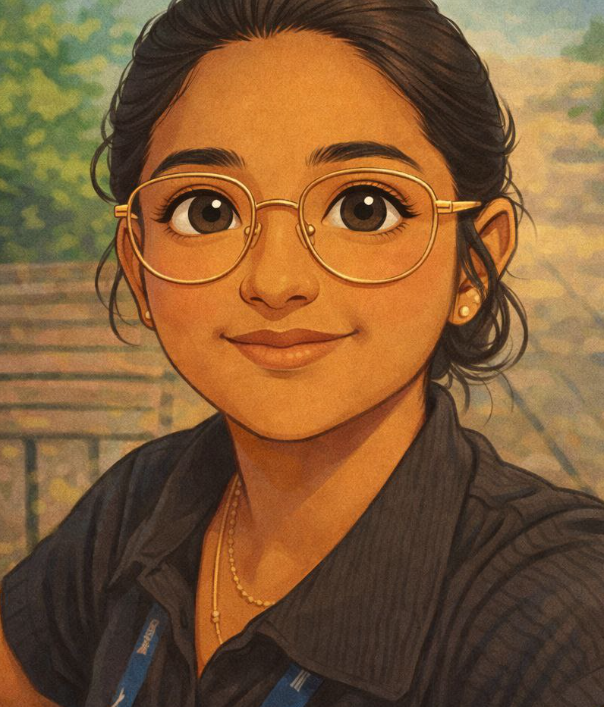
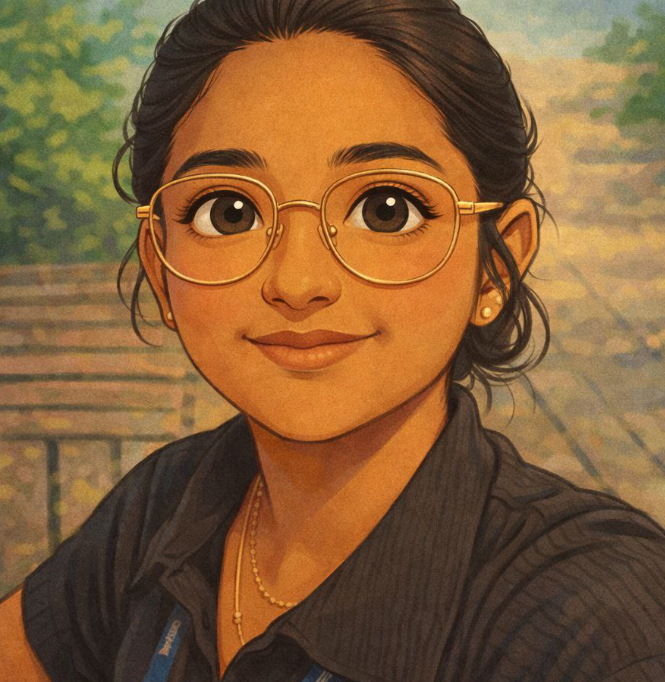
deploy: Harish3000/deeproot-source@60292916d2950c9704e31d5e87c1730317eb4a4d

diff --git a/authors/nethsarani/index.html b/authors/nethsarani/index.html
@@ -1,4 +1,4 @@
-<!doctype html><html itemscope lang=en-us itemtype=http://schema.org/WebPage><head><meta charset=utf-8><meta name=viewport content="width=device-width,initial-scale=1,maximum-scale=5"><meta name=theme-name content="hugoplate"><link rel="shortcut icon" href=/deeproot-hugo-engine/images/favicon_hu_8733e178ecfeb5cb.png type=image/x-icon><link rel=icon href=/deeproot-hugo-engine/images/favicon_hu_8733e178ecfeb5cb.png type=image/x-icon><link rel=icon type=image/png sizes=48x48 href=/deeproot-hugo-engine/images/favicon_hu_4f04ed45feaf467.png><link rel=icon type=image/png sizes=96x96 href=/deeproot-hugo-engine/images/favicon_hu_8733e178ecfeb5cb.png><link rel=apple-touch-icon sizes=144x144 href=/deeproot-hugo-engine/images/favicon_hu_c1a77a67c5ac1084.png><link rel=manifest href=/deeproot-hugo-engine/manifest.webmanifest><meta name=msapplication-TileColor content="#ddd"><meta name=theme-color content="#ffffff"><base href=https://Harish3000.github.io/deeproot-hugo-engine/authors/nethsarani/><title>Nethsarani</title><meta name=keywords content="Technology,Software Engineering"><meta name=description content="Software Engineering Intern from Walasmulla, Sri Lanka."><meta name=author content="Harish3000"><meta property="og:image" content="https://Harish3000.github.io/deeproot-hugo-engine/images/authors/nethsarani.png"><meta name=twitter:image content="https://Harish3000.github.io/deeproot-hugo-engine/images/authors/nethsarani.png"><meta name=twitter:card content="summary_large_image"><meta property="og:image:width" content="604"><meta property="og:image:height" content="707"><meta property="og:image:type" content="image/.png"><meta property="og:title" content="Nethsarani"><meta property="og:description" content="Software Engineering Intern from Walasmulla, Sri Lanka."><meta property="og:type" content="website"><meta property="og:url" content="https://Harish3000.github.io/deeproot-hugo-engine/authors/nethsarani/"><meta name=twitter:title content="Nethsarani"><meta name=twitter:description content="Software Engineering Intern from Walasmulla, Sri Lanka."><meta name=twitter:site content="@Harish3000"><meta name=twitter:creator content="@Harish3000"><script>let indexURL="https://Harish3000.github.io/deeproot-hugo-engine/searchindex.json",includeSectionsInSearch=["blog"],search_no_results="No results for",search_initial_message="Type something to search.."</script><meta http-equiv=x-dns-prefetch-control content="on"><link rel=preconnect href=https://use.fontawesome.com crossorigin><link rel=preconnect href=//cdnjs.cloudflare.com><link rel=preconnect href=//www.googletagmanager.com><link rel=preconnect href=//www.google-analytics.com><link rel=dns-prefetch href=https://use.fontawesome.com><link rel=dns-prefetch href=//ajax.googleapis.com><link rel=dns-prefetch href=//cdnjs.cloudflare.com><link rel=dns-prefetch href=//www.googletagmanager.com><link rel=dns-prefetch href=//www.google-analytics.com><link rel=dns-prefetch href=//fonts.googleapis.com><link rel=dns-prefetch href=//connect.facebook.net><link rel=dns-prefetch href=//platform.linkedin.com><link rel=dns-prefetch href=//platform.twitter.com><link rel=preconnect href=https://fonts.googleapis.com><link rel=preconnect href=https://fonts.gstatic.com crossorigin><script>(function(){const e=document.createElement("link");e.href="https://fonts.googleapis.com/css2?family=Heebo:wght@400;600&family=Signika:wght@500;700&display=swap",e.type="text/css",e.rel="stylesheet",document.head.appendChild(e)})()</script><link href=/deeproot-hugo-engine/css/style.e09b48b457f53eefd796ef9a8e10a43dc861abe9a2ca5933b2c747d6246b6a5d.css integrity="sha256-4JtItFf1Pu/Xlu+ajhCkPchhq+miylkzssdH1iRral0=" rel=stylesheet><link rel=stylesheet href=/deeproot-hugo-engine/css/style-lazy.min.9e7e035d2f064fe004383f2ffc11a8f2966ef7b51c5fb2fac926e35c0061b5cf.css integrity="sha256-nn4DXS8GT+AEOD8v/BGo8pZu97UcX7L6ySbjXABhtc8=" media=print onload='this.media="all",this.onload=null'></head><body><header class="header sticky top-0 z-30"><nav class="navbar container"><div class=order-0><a class="navbar-brand block" href=/deeproot-hugo-engine/><img fetchpriority=high decoding=async class="img img-light" width=160 height=32 src=/deeproot-hugo-engine/images/logo_hu_d762a207c9062941.webp alt=Deeproot onerror='this.onerror=null,this.src="/deeproot-hugo-engine/images/logo_hu_a7e123e3041fcd46.png"'>
+<!doctype html><html itemscope lang=en-us itemtype=http://schema.org/WebPage><head><meta charset=utf-8><meta name=viewport content="width=device-width,initial-scale=1,maximum-scale=5"><meta name=theme-name content="hugoplate"><link rel="shortcut icon" href=/deeproot-hugo-engine/images/favicon_hu_8733e178ecfeb5cb.png type=image/x-icon><link rel=icon href=/deeproot-hugo-engine/images/favicon_hu_8733e178ecfeb5cb.png type=image/x-icon><link rel=icon type=image/png sizes=48x48 href=/deeproot-hugo-engine/images/favicon_hu_4f04ed45feaf467.png><link rel=icon type=image/png sizes=96x96 href=/deeproot-hugo-engine/images/favicon_hu_8733e178ecfeb5cb.png><link rel=apple-touch-icon sizes=144x144 href=/deeproot-hugo-engine/images/favicon_hu_c1a77a67c5ac1084.png><link rel=manifest href=/deeproot-hugo-engine/manifest.webmanifest><meta name=msapplication-TileColor content="#ddd"><meta name=theme-color content="#ffffff"><base href=https://Harish3000.github.io/deeproot-hugo-engine/authors/nethsarani/><title>Nethsarani</title><meta name=keywords content="Technology,Software Engineering"><meta name=description content="Software Engineering Intern from Walasmulla, Sri Lanka."><meta name=author content="Harish3000"><meta property="og:image" content="https://Harish3000.github.io/deeproot-hugo-engine/images/authors/nethsarani.png"><meta name=twitter:image content="https://Harish3000.github.io/deeproot-hugo-engine/images/authors/nethsarani.png"><meta name=twitter:card content="summary_large_image"><meta property="og:image:width" content="665"><meta property="og:image:height" content="682"><meta property="og:image:type" content="image/.png"><meta property="og:title" content="Nethsarani"><meta property="og:description" content="Software Engineering Intern from Walasmulla, Sri Lanka."><meta property="og:type" content="website"><meta property="og:url" content="https://Harish3000.github.io/deeproot-hugo-engine/authors/nethsarani/"><meta name=twitter:title content="Nethsarani"><meta name=twitter:description content="Software Engineering Intern from Walasmulla, Sri Lanka."><meta name=twitter:site content="@Harish3000"><meta name=twitter:creator content="@Harish3000"><script>let indexURL="https://Harish3000.github.io/deeproot-hugo-engine/searchindex.json",includeSectionsInSearch=["blog"],search_no_results="No results for",search_initial_message="Type something to search.."</script><meta http-equiv=x-dns-prefetch-control content="on"><link rel=preconnect href=https://use.fontawesome.com crossorigin><link rel=preconnect href=//cdnjs.cloudflare.com><link rel=preconnect href=//www.googletagmanager.com><link rel=preconnect href=//www.google-analytics.com><link rel=dns-prefetch href=https://use.fontawesome.com><link rel=dns-prefetch href=//ajax.googleapis.com><link rel=dns-prefetch href=//cdnjs.cloudflare.com><link rel=dns-prefetch href=//www.googletagmanager.com><link rel=dns-prefetch href=//www.google-analytics.com><link rel=dns-prefetch href=//fonts.googleapis.com><link rel=dns-prefetch href=//connect.facebook.net><link rel=dns-prefetch href=//platform.linkedin.com><link rel=dns-prefetch href=//platform.twitter.com><link rel=preconnect href=https://fonts.googleapis.com><link rel=preconnect href=https://fonts.gstatic.com crossorigin><script>(function(){const e=document.createElement("link");e.href="https://fonts.googleapis.com/css2?family=Heebo:wght@400;600&family=Signika:wght@500;700&display=swap",e.type="text/css",e.rel="stylesheet",document.head.appendChild(e)})()</script><link href=/deeproot-hugo-engine/css/style.e09b48b457f53eefd796ef9a8e10a43dc861abe9a2ca5933b2c747d6246b6a5d.css integrity="sha256-4JtItFf1Pu/Xlu+ajhCkPchhq+miylkzssdH1iRral0=" rel=stylesheet><link rel=stylesheet href=/deeproot-hugo-engine/css/style-lazy.min.9e7e035d2f064fe004383f2ffc11a8f2966ef7b51c5fb2fac926e35c0061b5cf.css integrity="sha256-nn4DXS8GT+AEOD8v/BGo8pZu97UcX7L6ySbjXABhtc8=" media=print onload='this.media="all",this.onload=null'></head><body><header class="header sticky top-0 z-30"><nav class="navbar container"><div class=order-0><a class="navbar-brand block" href=/deeproot-hugo-engine/><img fetchpriority=high decoding=async class="img img-light" width=160 height=32 src=/deeproot-hugo-engine/images/logo_hu_d762a207c9062941.webp alt=Deeproot onerror='this.onerror=null,this.src="/deeproot-hugo-engine/images/logo_hu_a7e123e3041fcd46.png"'>
 <img fetchpriority=high decoding=async class="img img-dark" width=160 height=32 src=/deeproot-hugo-engine/images/logo-darkmode_hu_b75a00e749bdac76.webp alt=Deeproot onerror='this.onerror=null,this.src="/deeproot-hugo-engine/images/logo-darkmode_hu_c1861bfdbb313d14.png"'></a></div><input id=nav-toggle type=checkbox class=hidden>
 <label for=nav-toggle class="order-3 cursor-pointer flex items-center lg:hidden text-text-dark dark:text-white lg:order-1"><svg id="show-button" class="h-6 fill-current block" viewBox="0 0 20 20"><title>Menu Open</title><path d="M0 3h20v2H0V3zm0 6h20v2H0V9zm0 6h20v2H0V0z"/></svg>
 <svg id="hide-button" class="h-6 fill-current hidden" viewBox="0 0 20 20"><title>Menu Close</title><polygon points="11 9 22 9 22 11 11 11 11 22 9 22 9 11 -2 11 -2 9 9 9 9 -2 11 -2" transform="rotate(45 10 10)"/></svg></label><ul id=nav-menu class="navbar-nav order-3 hidden lg:flex w-full pb-6 lg:order-1 lg:w-auto lg:space-x-2 lg:pb-0 xl:space-x-8"><li class=nav-item><a class=nav-link href=/deeproot-hugo-engine/>Home</a></li><li class=nav-item><a class=nav-link href=/deeproot-hugo-engine/about>About</a></li><li class=nav-item><a class=nav-link href=/deeproot-hugo-engine/blog>Blogs</a></li><li class=nav-item><a class=nav-link href=/deeproot-hugo-engine/categories>Categories</a></li><li class=nav-item><a class=nav-link href=/deeproot-hugo-engine/authors>Authors</a></li><li class="nav-item nav-dropdown group relative"><input type=checkbox id=submenu-pages class="peer hidden lg:hidden">
@@ -19,7 +19,7 @@ text-xl dark:text-white cursor-pointer dark:hover:text-darkmode-primary" data-ta
 </span><span><kbd><svg width="12" height="12" fill="currentColor" style="display:inline-block" viewBox="0 0 16 16"><path fill-rule="evenodd" d="M14.5 1.5a.5.5.0 01.5.5v4.8a2.5 2.5.0 01-2.5 2.5H2.707l3.347 3.346a.5.5.0 01-.708.708l-4.2-4.2a.5.5.0 010-.708l4-4a.5.5.0 11.708.708L2.707 8.3H12.5A1.5 1.5.0 0014 6.8V2a.5.5.0 01.5-.5z"/></svg>
 </kbd>to select
 </span><span class=search-result-info></span>
-<span data-target=close-search-modal><kbd>ESC</kbd> to close</span></div></div></div><main><section class="section-sm pb-0"><div class=container><div class="row border-border dark:border-darkmode-border justify-center border-b pb-14"><div class="lg:col-4 text-center"><img src=/deeproot-hugo-engine/images/authors/nethsarani_hu_6ee274d56860792d.webp loading=lazy decoding=async alt=Nethsarani class="mx-auto img" width=200 height=200 onerror='this.onerror="null",this.src="/deeproot-hugo-engine/images/authors/nethsarani_hu_e637d7ea73a83bba.png"'><h1 class="h3 mt-10">Nethsarani</h1><div class="content mt-6"><p>Nethsarani is a dedicated software intern from Walasmulla, Sri Lanka, with a strong interest in system design, software architecture, and problem-solving techniques.</p></div><ul class="social-icons ml-4 mt-10 text-center"><li><a href=https://github.com target=_blank rel="noopener nofollow"><span class=sr-only></span>
+<span data-target=close-search-modal><kbd>ESC</kbd> to close</span></div></div></div><main><section class="section-sm pb-0"><div class=container><div class="row border-border dark:border-darkmode-border justify-center border-b pb-14"><div class="lg:col-4 text-center"><img src=/deeproot-hugo-engine/images/authors/nethsarani_hu_4af84f05188488cf.webp loading=lazy decoding=async alt=Nethsarani class="mx-auto img" width=200 height=200 onerror='this.onerror="null",this.src="/deeproot-hugo-engine/images/authors/nethsarani_hu_3536cbd12f264a4e.png"'><h1 class="h3 mt-10">Nethsarani</h1><div class="content mt-6"><p>Nethsarani is a dedicated software intern from Walasmulla, Sri Lanka, with a strong interest in system design, software architecture, and problem-solving techniques.</p></div><ul class="social-icons ml-4 mt-10 text-center"><li><a href=https://github.com target=_blank rel="noopener nofollow"><span class=sr-only></span>
 <i class="fa-brands fa-github"></i></a></li><li><a href=https://twitter.com target=_blank rel="noopener nofollow"><span class=sr-only></span>
 <i class="fa-brands fa-twitter"></i></a></li><li><a href=https://linkedin.com target=_blank rel="noopener nofollow"><span class=sr-only></span>
 <i class="fa-brands fa-linkedin"></i></a></li></ul></div></div><div class="row pb-16 pt-14"></div></div></section></main><footer class="bg-light dark:bg-darkmode-light"><div class=container><div class="row items-center py-10"><div class="lg:col-3 mb-8 text-center lg:mb-0 lg:text-left"><a class="navbar-brand inline-block" href=/deeproot-hugo-engine/><img fetchpriority=high decoding=async class="img img-light" width=160 height=32 src=/deeproot-hugo-engine/images/logo_hu_d762a207c9062941.webp alt=Deeproot onerror='this.onerror=null,this.src="/deeproot-hugo-engine/images/logo_hu_a7e123e3041fcd46.png"'>

diff --git a/authors/manodya/index.html b/authors/manodya/index.html
@@ -1,4 +1,4 @@
-<!doctype html><html itemscope lang=en-us itemtype=http://schema.org/WebPage><head><meta charset=utf-8><meta name=viewport content="width=device-width,initial-scale=1,maximum-scale=5"><meta name=theme-name content="hugoplate"><link rel="shortcut icon" href=/deeproot-hugo-engine/images/favicon_hu_8733e178ecfeb5cb.png type=image/x-icon><link rel=icon href=/deeproot-hugo-engine/images/favicon_hu_8733e178ecfeb5cb.png type=image/x-icon><link rel=icon type=image/png sizes=48x48 href=/deeproot-hugo-engine/images/favicon_hu_4f04ed45feaf467.png><link rel=icon type=image/png sizes=96x96 href=/deeproot-hugo-engine/images/favicon_hu_8733e178ecfeb5cb.png><link rel=apple-touch-icon sizes=144x144 href=/deeproot-hugo-engine/images/favicon_hu_c1a77a67c5ac1084.png><link rel=manifest href=/deeproot-hugo-engine/manifest.webmanifest><meta name=msapplication-TileColor content="#ddd"><meta name=theme-color content="#ffffff"><base href=https://Harish3000.github.io/deeproot-hugo-engine/authors/manodya/><title>Manodya</title><meta name=keywords content="Technology,Software Engineering"><meta name=description content="Software Engineering Intern from Weerakettiya, Sri Lanka."><meta name=author content="Harish3000"><meta property="og:image" content="https://Harish3000.github.io/deeproot-hugo-engine/images/authors/manodya.png"><meta name=twitter:image content="https://Harish3000.github.io/deeproot-hugo-engine/images/authors/manodya.png"><meta name=twitter:card content="summary_large_image"><meta property="og:image:width" content="462"><meta property="og:image:height" content="497"><meta property="og:image:type" content="image/.png"><meta property="og:title" content="Manodya"><meta property="og:description" content="Software Engineering Intern from Weerakettiya, Sri Lanka."><meta property="og:type" content="website"><meta property="og:url" content="https://Harish3000.github.io/deeproot-hugo-engine/authors/manodya/"><meta name=twitter:title content="Manodya"><meta name=twitter:description content="Software Engineering Intern from Weerakettiya, Sri Lanka."><meta name=twitter:site content="@Harish3000"><meta name=twitter:creator content="@Harish3000"><script>let indexURL="https://Harish3000.github.io/deeproot-hugo-engine/searchindex.json",includeSectionsInSearch=["blog"],search_no_results="No results for",search_initial_message="Type something to search.."</script><meta http-equiv=x-dns-prefetch-control content="on"><link rel=preconnect href=https://use.fontawesome.com crossorigin><link rel=preconnect href=//cdnjs.cloudflare.com><link rel=preconnect href=//www.googletagmanager.com><link rel=preconnect href=//www.google-analytics.com><link rel=dns-prefetch href=https://use.fontawesome.com><link rel=dns-prefetch href=//ajax.googleapis.com><link rel=dns-prefetch href=//cdnjs.cloudflare.com><link rel=dns-prefetch href=//www.googletagmanager.com><link rel=dns-prefetch href=//www.google-analytics.com><link rel=dns-prefetch href=//fonts.googleapis.com><link rel=dns-prefetch href=//connect.facebook.net><link rel=dns-prefetch href=//platform.linkedin.com><link rel=dns-prefetch href=//platform.twitter.com><link rel=preconnect href=https://fonts.googleapis.com><link rel=preconnect href=https://fonts.gstatic.com crossorigin><script>(function(){const e=document.createElement("link");e.href="https://fonts.googleapis.com/css2?family=Heebo:wght@400;600&family=Signika:wght@500;700&display=swap",e.type="text/css",e.rel="stylesheet",document.head.appendChild(e)})()</script><link href=/deeproot-hugo-engine/css/style.e09b48b457f53eefd796ef9a8e10a43dc861abe9a2ca5933b2c747d6246b6a5d.css integrity="sha256-4JtItFf1Pu/Xlu+ajhCkPchhq+miylkzssdH1iRral0=" rel=stylesheet><link rel=stylesheet href=/deeproot-hugo-engine/css/style-lazy.min.9e7e035d2f064fe004383f2ffc11a8f2966ef7b51c5fb2fac926e35c0061b5cf.css integrity="sha256-nn4DXS8GT+AEOD8v/BGo8pZu97UcX7L6ySbjXABhtc8=" media=print onload='this.media="all",this.onload=null'></head><body><header class="header sticky top-0 z-30"><nav class="navbar container"><div class=order-0><a class="navbar-brand block" href=/deeproot-hugo-engine/><img fetchpriority=high decoding=async class="img img-light" width=160 height=32 src=/deeproot-hugo-engine/images/logo_hu_d762a207c9062941.webp alt=Deeproot onerror='this.onerror=null,this.src="/deeproot-hugo-engine/images/logo_hu_a7e123e3041fcd46.png"'>
+<!doctype html><html itemscope lang=en-us itemtype=http://schema.org/WebPage><head><meta charset=utf-8><meta name=viewport content="width=device-width,initial-scale=1,maximum-scale=5"><meta name=theme-name content="hugoplate"><link rel="shortcut icon" href=/deeproot-hugo-engine/images/favicon_hu_8733e178ecfeb5cb.png type=image/x-icon><link rel=icon href=/deeproot-hugo-engine/images/favicon_hu_8733e178ecfeb5cb.png type=image/x-icon><link rel=icon type=image/png sizes=48x48 href=/deeproot-hugo-engine/images/favicon_hu_4f04ed45feaf467.png><link rel=icon type=image/png sizes=96x96 href=/deeproot-hugo-engine/images/favicon_hu_8733e178ecfeb5cb.png><link rel=apple-touch-icon sizes=144x144 href=/deeproot-hugo-engine/images/favicon_hu_c1a77a67c5ac1084.png><link rel=manifest href=/deeproot-hugo-engine/manifest.webmanifest><meta name=msapplication-TileColor content="#ddd"><meta name=theme-color content="#ffffff"><base href=https://Harish3000.github.io/deeproot-hugo-engine/authors/manodya/><title>Manodya</title><meta name=keywords content="Technology,Software Engineering"><meta name=description content="Software Engineering Intern from Weerakettiya, Sri Lanka."><meta name=author content="Harish3000"><meta property="og:image" content="https://Harish3000.github.io/deeproot-hugo-engine/images/authors/manodya.png"><meta name=twitter:image content="https://Harish3000.github.io/deeproot-hugo-engine/images/authors/manodya.png"><meta name=twitter:card content="summary_large_image"><meta property="og:image:width" content="462"><meta property="og:image:height" content="533"><meta property="og:image:type" content="image/.png"><meta property="og:title" content="Manodya"><meta property="og:description" content="Software Engineering Intern from Weerakettiya, Sri Lanka."><meta property="og:type" content="website"><meta property="og:url" content="https://Harish3000.github.io/deeproot-hugo-engine/authors/manodya/"><meta name=twitter:title content="Manodya"><meta name=twitter:description content="Software Engineering Intern from Weerakettiya, Sri Lanka."><meta name=twitter:site content="@Harish3000"><meta name=twitter:creator content="@Harish3000"><script>let indexURL="https://Harish3000.github.io/deeproot-hugo-engine/searchindex.json",includeSectionsInSearch=["blog"],search_no_results="No results for",search_initial_message="Type something to search.."</script><meta http-equiv=x-dns-prefetch-control content="on"><link rel=preconnect href=https://use.fontawesome.com crossorigin><link rel=preconnect href=//cdnjs.cloudflare.com><link rel=preconnect href=//www.googletagmanager.com><link rel=preconnect href=//www.google-analytics.com><link rel=dns-prefetch href=https://use.fontawesome.com><link rel=dns-prefetch href=//ajax.googleapis.com><link rel=dns-prefetch href=//cdnjs.cloudflare.com><link rel=dns-prefetch href=//www.googletagmanager.com><link rel=dns-prefetch href=//www.google-analytics.com><link rel=dns-prefetch href=//fonts.googleapis.com><link rel=dns-prefetch href=//connect.facebook.net><link rel=dns-prefetch href=//platform.linkedin.com><link rel=dns-prefetch href=//platform.twitter.com><link rel=preconnect href=https://fonts.googleapis.com><link rel=preconnect href=https://fonts.gstatic.com crossorigin><script>(function(){const e=document.createElement("link");e.href="https://fonts.googleapis.com/css2?family=Heebo:wght@400;600&family=Signika:wght@500;700&display=swap",e.type="text/css",e.rel="stylesheet",document.head.appendChild(e)})()</script><link href=/deeproot-hugo-engine/css/style.e09b48b457f53eefd796ef9a8e10a43dc861abe9a2ca5933b2c747d6246b6a5d.css integrity="sha256-4JtItFf1Pu/Xlu+ajhCkPchhq+miylkzssdH1iRral0=" rel=stylesheet><link rel=stylesheet href=/deeproot-hugo-engine/css/style-lazy.min.9e7e035d2f064fe004383f2ffc11a8f2966ef7b51c5fb2fac926e35c0061b5cf.css integrity="sha256-nn4DXS8GT+AEOD8v/BGo8pZu97UcX7L6ySbjXABhtc8=" media=print onload='this.media="all",this.onload=null'></head><body><header class="header sticky top-0 z-30"><nav class="navbar container"><div class=order-0><a class="navbar-brand block" href=/deeproot-hugo-engine/><img fetchpriority=high decoding=async class="img img-light" width=160 height=32 src=/deeproot-hugo-engine/images/logo_hu_d762a207c9062941.webp alt=Deeproot onerror='this.onerror=null,this.src="/deeproot-hugo-engine/images/logo_hu_a7e123e3041fcd46.png"'>
 <img fetchpriority=high decoding=async class="img img-dark" width=160 height=32 src=/deeproot-hugo-engine/images/logo-darkmode_hu_b75a00e749bdac76.webp alt=Deeproot onerror='this.onerror=null,this.src="/deeproot-hugo-engine/images/logo-darkmode_hu_c1861bfdbb313d14.png"'></a></div><input id=nav-toggle type=checkbox class=hidden>
 <label for=nav-toggle class="order-3 cursor-pointer flex items-center lg:hidden text-text-dark dark:text-white lg:order-1"><svg id="show-button" class="h-6 fill-current block" viewBox="0 0 20 20"><title>Menu Open</title><path d="M0 3h20v2H0V3zm0 6h20v2H0V9zm0 6h20v2H0V0z"/></svg>
 <svg id="hide-button" class="h-6 fill-current hidden" viewBox="0 0 20 20"><title>Menu Close</title><polygon points="11 9 22 9 22 11 11 11 11 22 9 22 9 11 -2 11 -2 9 9 9 9 -2 11 -2" transform="rotate(45 10 10)"/></svg></label><ul id=nav-menu class="navbar-nav order-3 hidden lg:flex w-full pb-6 lg:order-1 lg:w-auto lg:space-x-2 lg:pb-0 xl:space-x-8"><li class=nav-item><a class=nav-link href=/deeproot-hugo-engine/>Home</a></li><li class=nav-item><a class=nav-link href=/deeproot-hugo-engine/about>About</a></li><li class=nav-item><a class=nav-link href=/deeproot-hugo-engine/blog>Blogs</a></li><li class=nav-item><a class=nav-link href=/deeproot-hugo-engine/categories>Categories</a></li><li class=nav-item><a class=nav-link href=/deeproot-hugo-engine/authors>Authors</a></li><li class="nav-item nav-dropdown group relative"><input type=checkbox id=submenu-pages class="peer hidden lg:hidden">
@@ -19,7 +19,7 @@ text-xl dark:text-white cursor-pointer dark:hover:text-darkmode-primary" data-ta
 </span><span><kbd><svg width="12" height="12" fill="currentColor" style="display:inline-block" viewBox="0 0 16 16"><path fill-rule="evenodd" d="M14.5 1.5a.5.5.0 01.5.5v4.8a2.5 2.5.0 01-2.5 2.5H2.707l3.347 3.346a.5.5.0 01-.708.708l-4.2-4.2a.5.5.0 010-.708l4-4a.5.5.0 11.708.708L2.707 8.3H12.5A1.5 1.5.0 0014 6.8V2a.5.5.0 01.5-.5z"/></svg>
 </kbd>to select
 </span><span class=search-result-info></span>
-<span data-target=close-search-modal><kbd>ESC</kbd> to close</span></div></div></div><main><section class="section-sm pb-0"><div class=container><div class="row border-border dark:border-darkmode-border justify-center border-b pb-14"><div class="lg:col-4 text-center"><img src=/deeproot-hugo-engine/images/authors/manodya_hu_4387180b62d26354.webp loading=lazy decoding=async alt=Manodya class="mx-auto img" width=200 height=200 onerror='this.onerror="null",this.src="/deeproot-hugo-engine/images/authors/manodya_hu_4a2c1f77ced50105.png"'><h1 class="h3 mt-10">Manodya</h1><div class="content mt-6"><p>Manodya is an aspiring software engineer from Weerakettiya, Sri Lanka, passionate about coding, first-principles thinking, and understanding complex systems.</p></div><ul class="social-icons ml-4 mt-10 text-center"><li><a href=https://github.com target=_blank rel="noopener nofollow"><span class=sr-only></span>
+<span data-target=close-search-modal><kbd>ESC</kbd> to close</span></div></div></div><main><section class="section-sm pb-0"><div class=container><div class="row border-border dark:border-darkmode-border justify-center border-b pb-14"><div class="lg:col-4 text-center"><img src=/deeproot-hugo-engine/images/authors/manodya_hu_c431fbf5ff778190.webp loading=lazy decoding=async alt=Manodya class="mx-auto img" width=200 height=200 onerror='this.onerror="null",this.src="/deeproot-hugo-engine/images/authors/manodya_hu_81c23db161a0768d.png"'><h1 class="h3 mt-10">Manodya</h1><div class="content mt-6"><p>Manodya is an aspiring software engineer from Weerakettiya, Sri Lanka, passionate about coding, first-principles thinking, and understanding complex systems.</p></div><ul class="social-icons ml-4 mt-10 text-center"><li><a href=https://github.com target=_blank rel="noopener nofollow"><span class=sr-only></span>
 <i class="fa-brands fa-github"></i></a></li><li><a href=https://twitter.com target=_blank rel="noopener nofollow"><span class=sr-only></span>
 <i class="fa-brands fa-twitter"></i></a></li><li><a href=https://linkedin.com target=_blank rel="noopener nofollow"><span class=sr-only></span>
 <i class="fa-brands fa-linkedin"></i></a></li></ul></div></div><div class="row pb-16 pt-14"><div class="md:col-6 lg:col-4 mb-12"><div class="bg-body dark:bg-darkmode-body"><h4 class=mb-3><a href=/deeproot-hugo-engine/blog/post-3/>Creating User-Friendly Interfaces with Modern Design Systems</a></h4><ul class=mb-4><li class="mr-4 inline-block"><a href=/deeproot-hugo-engine/authors/manodya/><i class="fa-regular fa-circle-user mr-2"></i>Manodya</a></li><li class="mr-4 inline-block"><i class="fa-regular fa-folder mr-1"></i>

diff --git a/authors/index.html b/authors/index.html
@@ -32,10 +32,10 @@ text-xl dark:text-white cursor-pointer dark:hover:text-darkmode-primary" data-ta
 <i class="fa-brands fa-linkedin"></i></a></li></ul></div></div><div class="md:col-6 lg:col-4 mb-14"><div class="bg-light dark:bg-darkmode-light rounded p-8 text-center"><picture><source srcset=/deeproot-hugo-engine/images/authors/jamzi_hu_babce4e14ef4589a.webp media="(max-width: 575px)"><source srcset=/deeproot-hugo-engine/images/authors/jamzi_hu_58daca516d6e2a9c.webp media="(max-width: 767px)"><source srcset=/deeproot-hugo-engine/images/authors/jamzi_hu_cdfffd8dcab910b0.webp media="(max-width: 991px)"><source srcset=/deeproot-hugo-engine/images/authors/jamzi_hu_d309fd82dca3a089.webp><img loading=lazy decoding=async src=/deeproot-hugo-engine/images/authors/jamzi_hu_b1f0ecb9a8b8e535.png class="mx-auto mb-6 rounded img" alt=Jamzi width=539 height=602></picture><h4 class=mb-3><a href=/deeproot-hugo-engine/authors/jamzi/>Jamzi</a></h4><p class=mb-4>Jamzi is a motivated intern from Kalmunai, Sri Lanka, passionate about understanding software architecture and applying first-principles thinking in projects.</p><ul class=social-icons><li><a href=https://github.com target=_blank rel="noopener nofollow"><span class=sr-only></span>
 <i class="fa-brands fa-github"></i></a></li><li><a href=https://twitter.com target=_blank rel="noopener nofollow"><span class=sr-only></span>
 <i class="fa-brands fa-twitter"></i></a></li><li><a href=https://linkedin.com target=_blank rel="noopener nofollow"><span class=sr-only></span>
-<i class="fa-brands fa-linkedin"></i></a></li></ul></div></div><div class="md:col-6 lg:col-4 mb-14"><div class="bg-light dark:bg-darkmode-light rounded p-8 text-center"><img src=/deeproot-hugo-engine/images/authors/manodya_hu_2356d6ac5d1f0633.webp loading=lazy decoding=async alt=Manodya class="mx-auto mb-6 rounded img" width=462 height=497 onerror='this.onerror="null",this.src="/deeproot-hugo-engine/images/authors/manodya.png"'><h4 class=mb-3><a href=/deeproot-hugo-engine/authors/manodya/>Manodya</a></h4><p class=mb-4>Manodya is an aspiring software engineer from Weerakettiya, Sri Lanka, passionate about coding, first-principles thinking, and understanding complex systems.</p><ul class=social-icons><li><a href=https://github.com target=_blank rel="noopener nofollow"><span class=sr-only></span>
+<i class="fa-brands fa-linkedin"></i></a></li></ul></div></div><div class="md:col-6 lg:col-4 mb-14"><div class="bg-light dark:bg-darkmode-light rounded p-8 text-center"><img src=/deeproot-hugo-engine/images/authors/manodya_hu_eb0940b183246ff8.webp loading=lazy decoding=async alt=Manodya class="mx-auto mb-6 rounded img" width=462 height=533 onerror='this.onerror="null",this.src="/deeproot-hugo-engine/images/authors/manodya.png"'><h4 class=mb-3><a href=/deeproot-hugo-engine/authors/manodya/>Manodya</a></h4><p class=mb-4>Manodya is an aspiring software engineer from Weerakettiya, Sri Lanka, passionate about coding, first-principles thinking, and understanding complex systems.</p><ul class=social-icons><li><a href=https://github.com target=_blank rel="noopener nofollow"><span class=sr-only></span>
 <i class="fa-brands fa-github"></i></a></li><li><a href=https://twitter.com target=_blank rel="noopener nofollow"><span class=sr-only></span>
 <i class="fa-brands fa-twitter"></i></a></li><li><a href=https://linkedin.com target=_blank rel="noopener nofollow"><span class=sr-only></span>
-<i class="fa-brands fa-linkedin"></i></a></li></ul></div></div><div class="md:col-6 lg:col-4 mb-14"><div class="bg-light dark:bg-darkmode-light rounded p-8 text-center"><picture><source srcset=/deeproot-hugo-engine/images/authors/nethsarani_hu_5e59412537972714.webp media="(max-width: 575px)"><source srcset=/deeproot-hugo-engine/images/authors/nethsarani_hu_492a3975b06b1cc8.webp media="(max-width: 767px)"><source srcset=/deeproot-hugo-engine/images/authors/nethsarani_hu_c34c7d459cfffd0d.webp media="(max-width: 991px)"><source srcset=/deeproot-hugo-engine/images/authors/nethsarani_hu_c39d1c952da6a9b8.webp><img loading=lazy decoding=async src=/deeproot-hugo-engine/images/authors/nethsarani_hu_94d1213648c44550.png class="mx-auto mb-6 rounded img" alt=Nethsarani width=604 height=707></picture><h4 class=mb-3><a href=/deeproot-hugo-engine/authors/nethsarani/>Nethsarani</a></h4><p class=mb-4>Nethsarani is a dedicated software intern from Walasmulla, Sri Lanka, with a strong interest in system design, software architecture, and problem-solving techniques.</p><ul class=social-icons><li><a href=https://github.com target=_blank rel="noopener nofollow"><span class=sr-only></span>
+<i class="fa-brands fa-linkedin"></i></a></li></ul></div></div><div class="md:col-6 lg:col-4 mb-14"><div class="bg-light dark:bg-darkmode-light rounded p-8 text-center"><picture><source srcset=/deeproot-hugo-engine/images/authors/nethsarani_hu_476f240e86d41a4.webp media="(max-width: 575px)"><source srcset=/deeproot-hugo-engine/images/authors/nethsarani_hu_ee24ad211bdb4422.webp media="(max-width: 767px)"><source srcset=/deeproot-hugo-engine/images/authors/nethsarani_hu_d3816bf9c9405ba6.webp media="(max-width: 991px)"><source srcset=/deeproot-hugo-engine/images/authors/nethsarani_hu_bd0629040aed13e5.webp><img loading=lazy decoding=async src=/deeproot-hugo-engine/images/authors/nethsarani_hu_51bd9c914ffae6a9.png class="mx-auto mb-6 rounded img" alt=Nethsarani width=665 height=682></picture><h4 class=mb-3><a href=/deeproot-hugo-engine/authors/nethsarani/>Nethsarani</a></h4><p class=mb-4>Nethsarani is a dedicated software intern from Walasmulla, Sri Lanka, with a strong interest in system design, software architecture, and problem-solving techniques.</p><ul class=social-icons><li><a href=https://github.com target=_blank rel="noopener nofollow"><span class=sr-only></span>
 <i class="fa-brands fa-github"></i></a></li><li><a href=https://twitter.com target=_blank rel="noopener nofollow"><span class=sr-only></span>
 <i class="fa-brands fa-twitter"></i></a></li><li><a href=https://linkedin.com target=_blank rel="noopener nofollow"><span class=sr-only></span>
 <i class="fa-brands fa-linkedin"></i></a></li></ul></div></div><div class="md:col-6 lg:col-4 mb-14"><div class="bg-light dark:bg-darkmode-light rounded p-8 text-center"><picture><source srcset=/deeproot-hugo-engine/images/authors/samsen_hu_9f65b4ce2cb696fb.webp media="(max-width: 575px)"><source srcset=/deeproot-hugo-engine/images/authors/samsen_hu_54651b1a8a53b22e.webp media="(max-width: 767px)"><source srcset=/deeproot-hugo-engine/images/authors/samsen_hu_5f9e85d1202c6e26.webp media="(max-width: 991px)"><source srcset=/deeproot-hugo-engine/images/authors/samsen_hu_2bdf223ee36958ec.webp><img loading=lazy decoding=async src=/deeproot-hugo-engine/images/authors/samsen_hu_4888bcd0f5f2bd2d.png class="mx-auto mb-6 rounded img" alt="Sam Sen" width=664 height=749></picture><h4 class=mb-3><a href=/deeproot-hugo-engine/authors/samsen/>Sam Sen</a></h4><p class=mb-4>Sam is an enthusiastic learner from Kegalle, Sri Lanka, focused on software fundamentals, clean code, and applying engineering principles in practical projects.</p><ul class=social-icons><li><a href=https://github.com target=_blank rel="noopener nofollow"><span class=sr-only></span>
